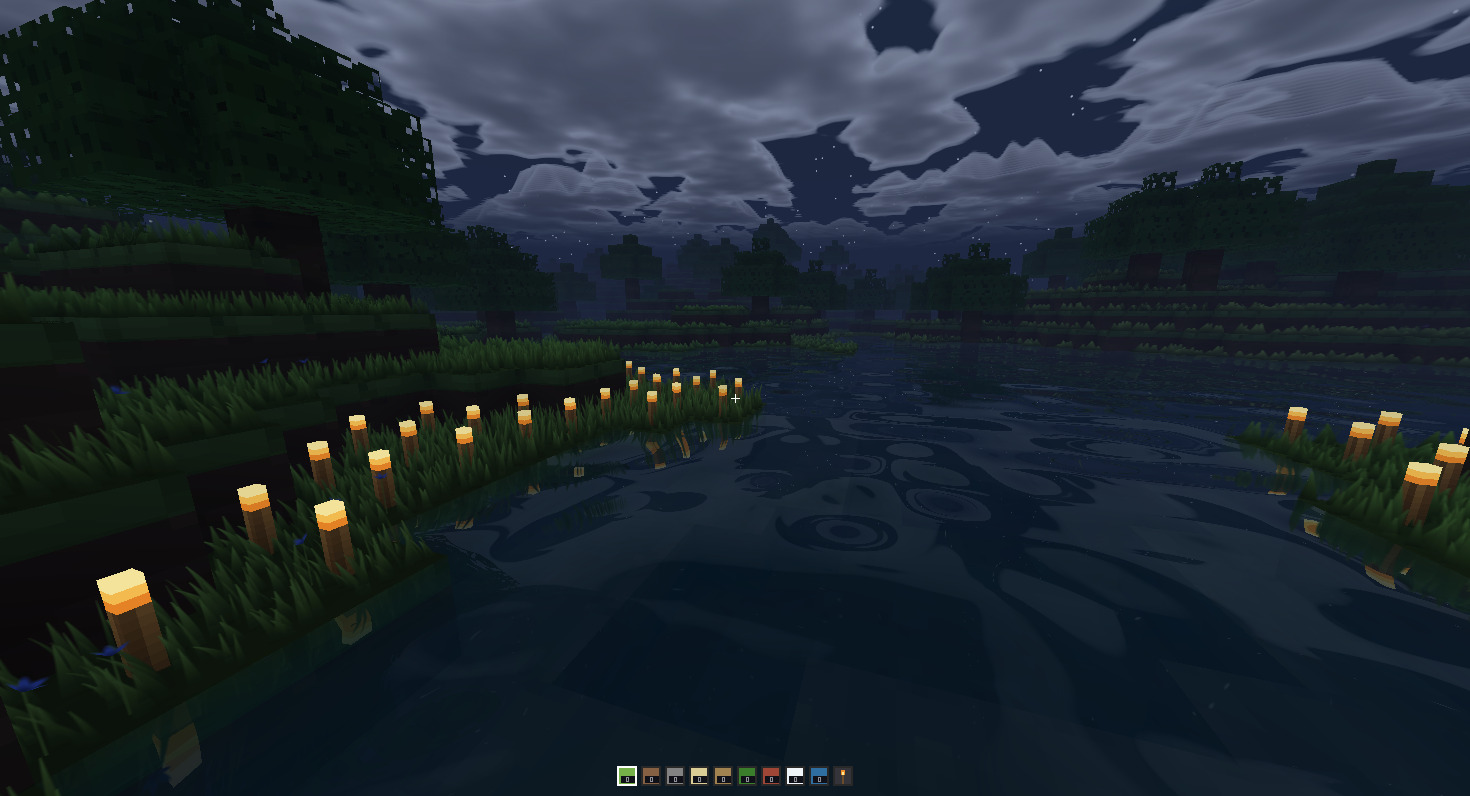
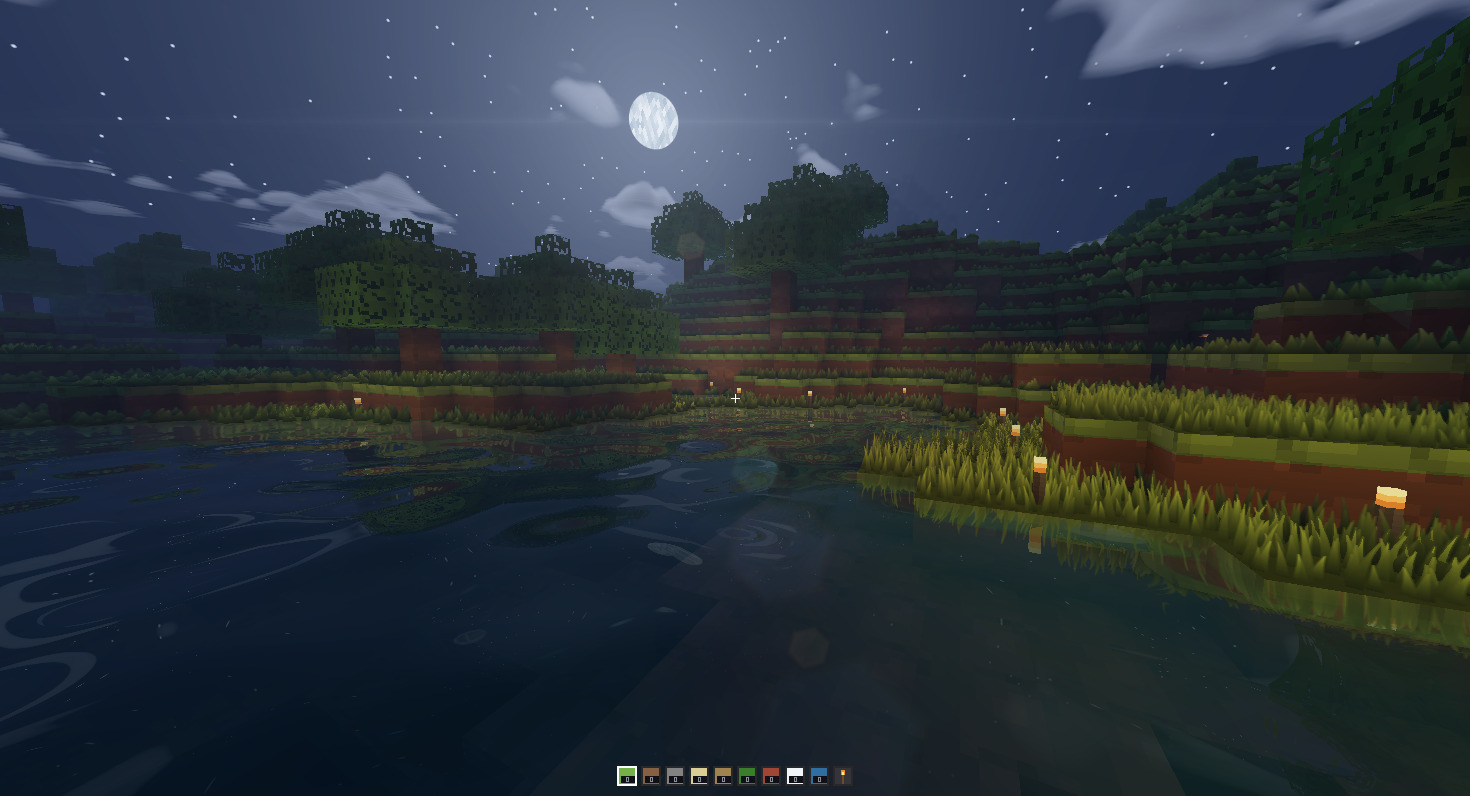
New shots for the README, with the torches' light (asked for on 2026-09-29: "tire novas fotos por favor, a da tocha por exemplo tá sem luz"; "bem melhor, pode subir"). The night's shot came from a render before the light grid, so its torches lit nothing; it is now the lake's shore under the full moo

diff --git a/README.md b/README.md
@@ -57,7 +57,8 @@ them.
 
 | | |
 |---|---|
-| ![Rain on the lake](docs/shots/rain.jpg) | ![Torches along the shore at night](docs/shots/night.jpg) |
+| ![Rain on the lake](docs/shots/rain.jpg) | ![Torches along the shore under the full moon](docs/shots/night.jpg) |
+| ![The sun setting over the lake](docs/shots/sunset.jpg) | ![Under the lake: the caustic on its bed, the surface a mirror](docs/shots/underwater.jpg) |
 
 ## Play
 
